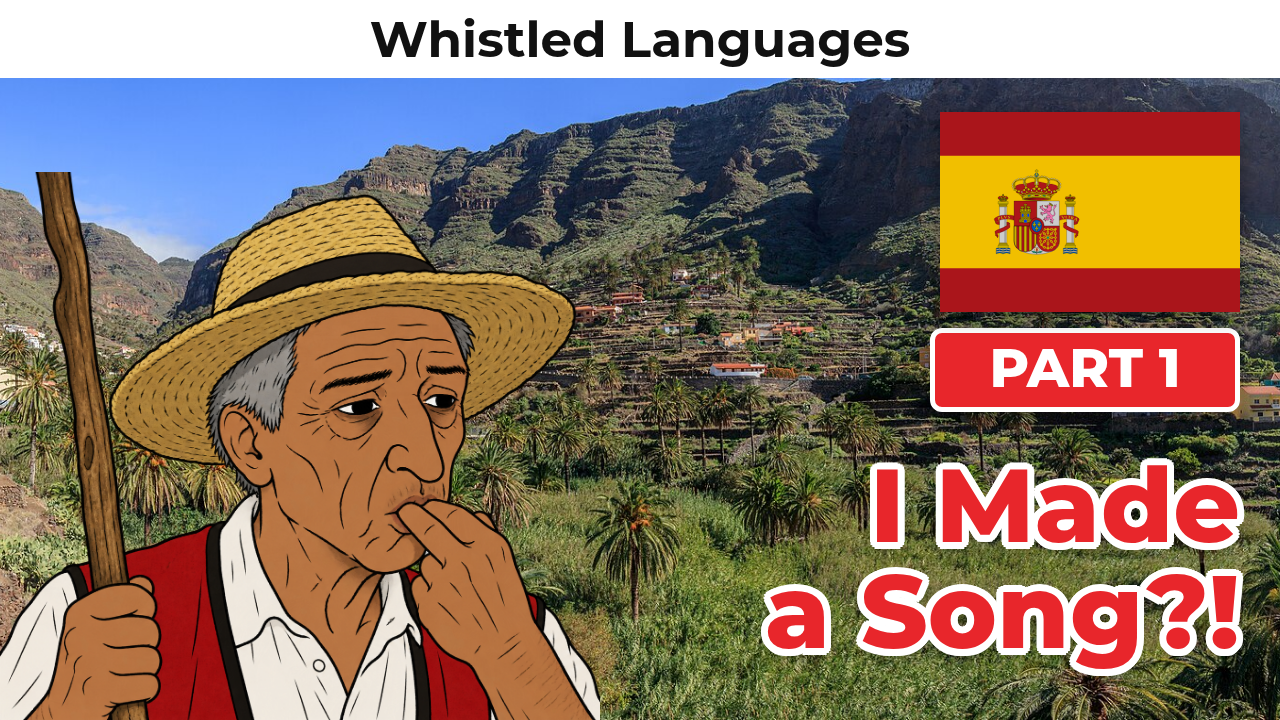
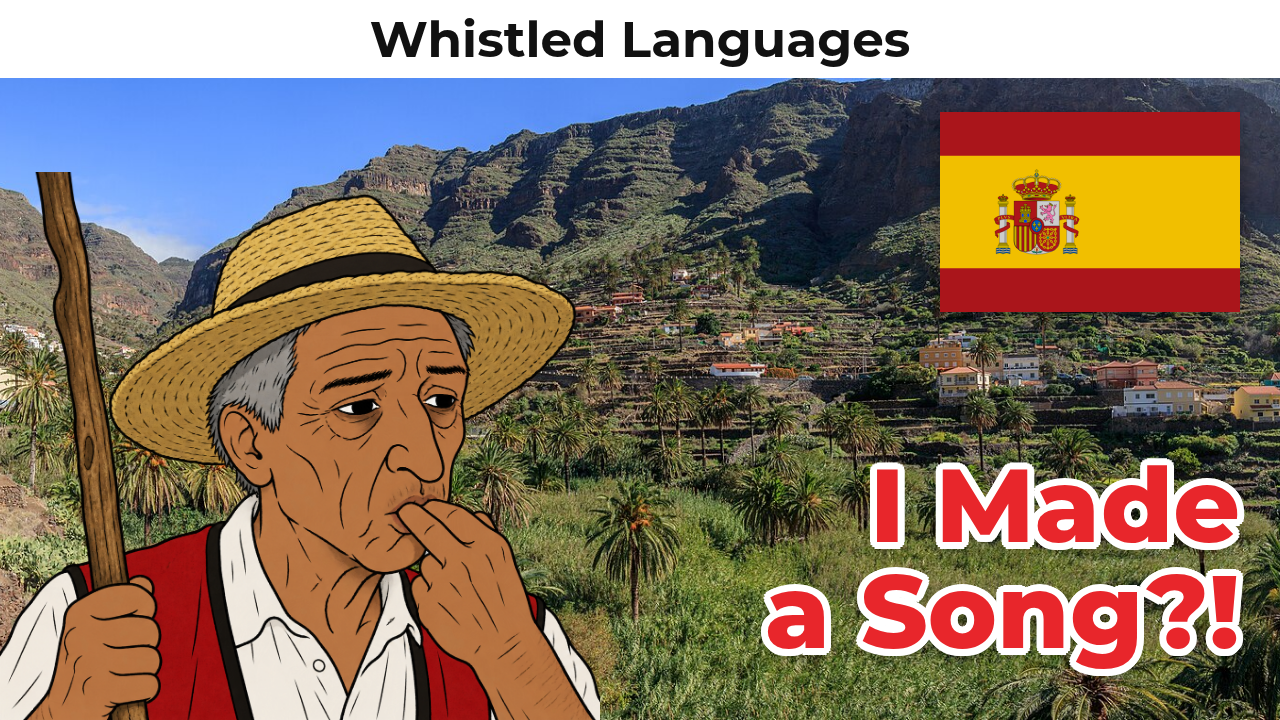
Pitch line for tonal videos; whistle song without Part 1 label and credit line
Claude-Session: https://claude.ai/code/session_01JteZbjgJzANfm9zkD8PK4e

Changed region(s): [[0.7188, 0.4583, 0.9688, 0.5806]]

diff --git a/lingo/pitch_track.py b/lingo/pitch_track.py
@@ -1,0 +1,25 @@
+"""Add a pitch trace to every clip of a video, for the on-screen pitch line (videos with pitchLine: true).
+   python3 pitch_track.py <key>   -> manifest[<item>]["pitch"] = [[t, 0..1 or null], ...] (100 ms smoothing, log scale per clip)"""
+import json, os, re, sys, numpy as np, parselmouth
+HERE = os.path.dirname(os.path.abspath(__file__))
+key = sys.argv[1]
+mp = os.path.join(HERE, "cache", "audio", key, "manifest.json"); man = json.load(open(mp))
+slug = lambda n: re.sub(r"^_+|_+$", "", re.sub(r"[^\w]+", "_", n)).lower()
+for name, e in man.items():
+    if not e: continue
+    wav = os.path.join(HERE, "cache", "audio", key, slug(name) + ".wav")
+    if not os.path.exists(wav): print("missing", wav); continue
+    pt = parselmouth.Sound(wav).to_pitch_ac(time_step=0.02, pitch_floor=70, pitch_ceiling=500)
+    f = pt.selected_array["frequency"]; t = pt.xs()
+    st = np.where(f > 0, 12 * np.log2(np.maximum(f, 1) / 100), np.nan)
+    v = st[~np.isnan(st)]
+    if len(v) < 5: continue
+    lo, hi = np.percentile(v, 5), np.percentile(v, 95)
+    out = [[round(float(a), 2), None if np.isnan(b) else round(float(np.clip((b - lo) / max(hi - lo, 1), 0, 1)), 3)] for a, b in zip(t, st)]
+    # drop octave-jump glitches: a point far from both neighbours breaks the line instead of drawing a spike
+    for i in range(1, len(out) - 1):
+        a, b, c = out[i - 1][1], out[i][1], out[i + 1][1]
+        if b is not None and (a is None or abs(b - a) > 0.3) and (c is None or abs(b - c) > 0.3): out[i][1] = None
+    e["pitch"] = out
+    print(name, len(out), "points")
+json.dump(man, open(mp, "w"), indent=1, ensure_ascii=False)

diff --git a/lingo/meta/whistlesong.md b/lingo/meta/whistlesong.md
@@ -1,12 +1,12 @@
-# YouTube metadata: I Made a Song Using Only Whistled Languages (Part 1)
+# YouTube metadata: I Made a Song Using Only Whistled Languages
 
 ## Title
-I Made a Song Using Only Whistled Languages (Part 1)
+I Made a Song Using Only Whistled Languages
 
 ## Description
 9 whistled languages. 0 words. 1 song. Real whistlers from the Canary Islands, Turkey, Greece, the French Pyrenees, Nigeria, Laos, Mexico, Brazil and French Guiana, tuned to one melody over a beat. The breakdown plays the original recordings untouched.
 
-Which whistled language should join Part 2? Tell us in the comments 👇
+Which whistled language should we add next? Tell us in the comments 👇
 
 0:00 Intro: Silbo Gomero
 0:04 Silbo Gomero (Spain)
